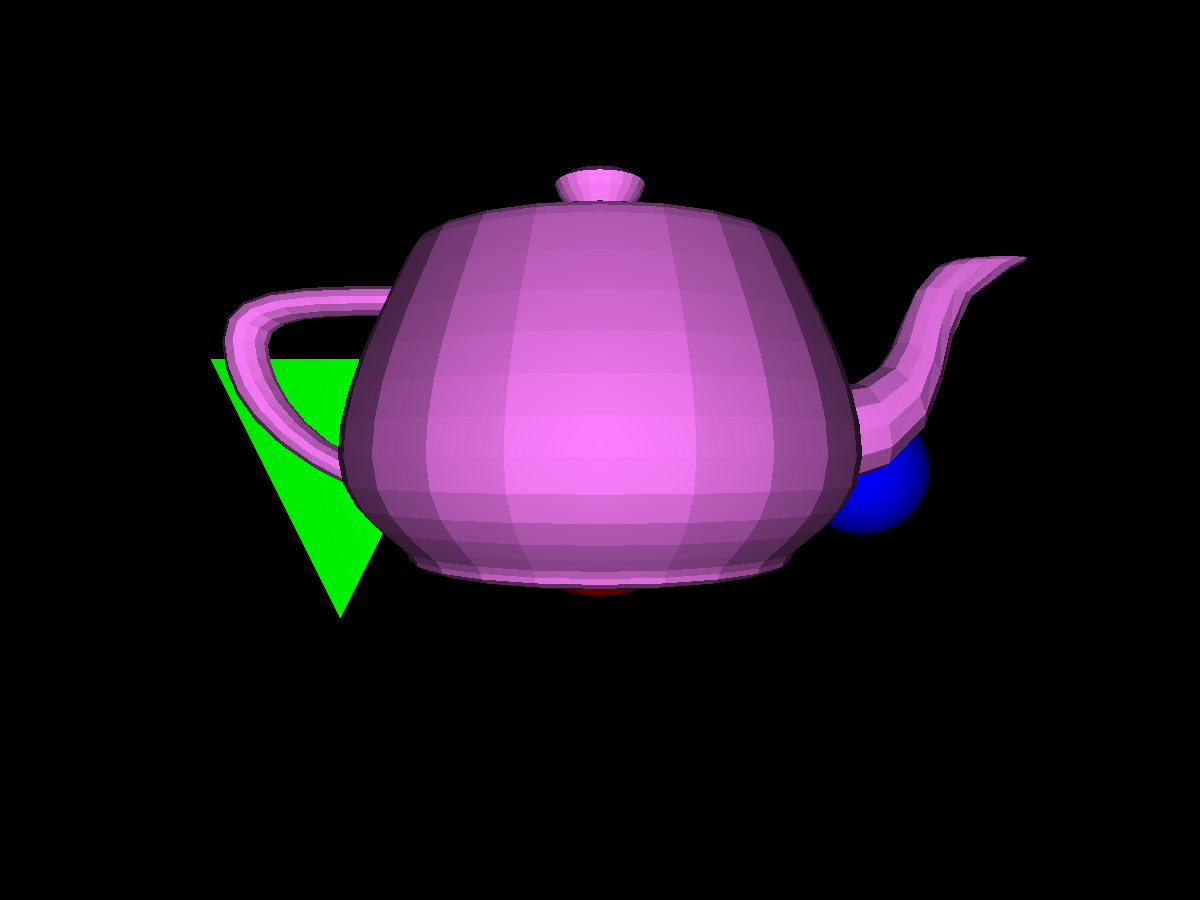
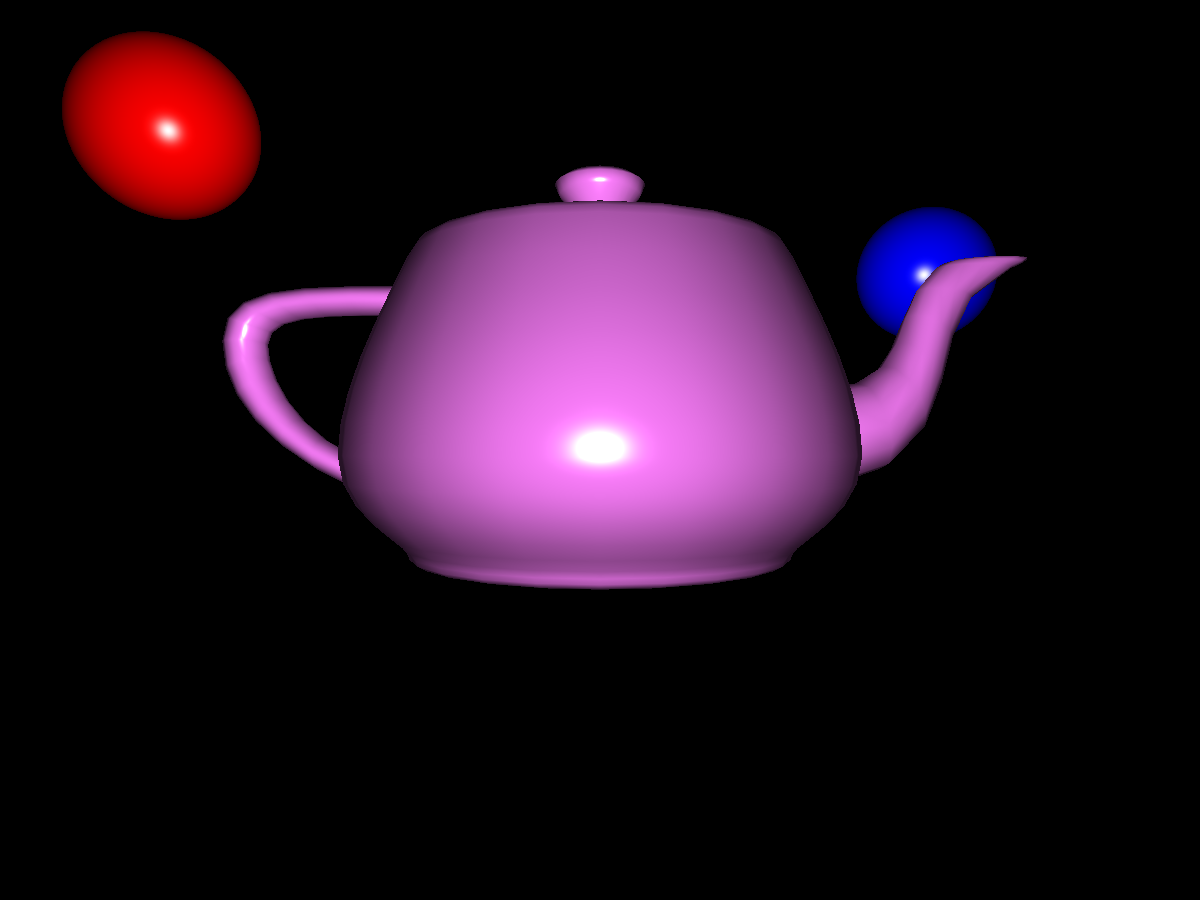
v0.5 - Phong Shading

diff --git a/ObjReader.java b/ObjReader.java
@@ -3,62 +3,73 @@ import java.util.*;
 
 public class OBJReader {
 
-    /**
-     * Loads a 3D model from an OBJ file at the given path and reads its vertices and faces
-     * to create geometry using triangles.
-     * Supports face formats: v, v/vt, v/vt/vn, v//vn
-     * Supports triangles and quads (quads are fan-triangulated).
-     *
-     * @param path  Path to the .obj file
-     * @param color Color to apply to all triangles
-     * @return List of Triangle objects representing the model's geometry
-     */
     public static List<Triangle> load(String path, Vector3D color) {
 
         List<Vector3D> vertices = new ArrayList<>();
+        List<Vector3D> normals  = new ArrayList<>(); // vn lines
         List<Triangle> triangles = new ArrayList<>();
 
         try (BufferedReader br = new BufferedReader(new FileReader(path))) {
 
             String line;
-
             while ((line = br.readLine()) != null) {
-
                 line = line.trim();
-
-                // Skip empty lines and comments
                 if (line.isEmpty() || line.startsWith("#")) continue;
 
                 // Vertices
                 if (line.startsWith("v ")) {
-                    String[] parts = line.split("\\s+");
+                    String[] p = line.split("\\s+");
+                    vertices.add(new Vector3D(
+                        Double.parseDouble(p[1]),
+                        Double.parseDouble(p[2]),
+                        Double.parseDouble(p[3])
+                    ));
+                }
 
-                    double x = Double.parseDouble(parts[1]);
-                    double y = Double.parseDouble(parts[2]);
-                    double z = Double.parseDouble(parts[3]);
-
-                    vertices.add(new Vector3D(x, y, z));
+                // Vertex normals
+                else if (line.startsWith("vn ")) {
+                    String[] p = line.split("\\s+");
+                    normals.add(new Vector3D(
+                        Double.parseDouble(p[1]),
+                        Double.parseDouble(p[2]),
+                        Double.parseDouble(p[3])
+                    ).normalize());
                 }
 
                 // Faces
                 else if (line.startsWith("f ")) {
                     String[] parts = line.split("\\s+");
 
-                    // Parse each vertex token, handling formats:
-                    // "v", "v/vt", "v/vt/vn", "v//vn"
-                    int[] idx = new int[parts.length - 1];
-                    for (int i = 0; i < idx.length; i++) {
-                        idx[i] = Integer.parseInt(parts[i + 1].split("/")[0]) - 1;
+                    int[] vi = new int[parts.length - 1]; // vertex indices
+                    int[] ni = new int[parts.length - 1]; // normal indices
+                    boolean hasNormals = false;
+
+                    for (int i = 0; i < vi.length; i++) {
+                        String[] tokens = parts[i + 1].split("/");
+                        vi[i] = Integer.parseInt(tokens[0]) - 1;
+
+                        // Format v/vt/vn or v//vn
+                        if (tokens.length == 3 && !tokens[2].isEmpty()) {
+                            ni[i] = Integer.parseInt(tokens[2]) - 1;
+                            hasNormals = true;
+                        }
                     }
 
-                    // Fan-triangulate the face (handles triangles, quads, and n-gons)
-                    for (int i = 1; i < idx.length - 1; i++) {
-                        Triangle tri = new Triangle(
-                            vertices.get(idx[0]),
-                            vertices.get(idx[i]),
-                            vertices.get(idx[i + 1]),
-                            color
-                        );
+                    // Fan-triangulate
+                    for (int i = 1; i < vi.length - 1; i++) {
+                        Triangle tri;
+                        if (hasNormals && !normals.isEmpty()) {
+                            tri = new Triangle(
+                                vertices.get(vi[0]), vertices.get(vi[i]), vertices.get(vi[i+1]),
+                                normals.get(ni[0]),  normals.get(ni[i]),  normals.get(ni[i+1]),
+                                color
+                            );
+                        } else {
+                            tri = new Triangle(
+                                vertices.get(vi[0]), vertices.get(vi[i]), vertices.get(vi[i+1]),
+                                color
+                            );
+                        }
                         triangles.add(tri);
                     }
                 }
@@ -66,19 +77,15 @@ public class OBJReader {
 
         } catch (IOException e) {
             System.err.println("Error reading OBJ file: " + e.getMessage());
-            e.printStackTrace();
         } catch (NumberFormatException e) {
-            System.err.println("Error parsing OBJ file (malformed number): " + e.getMessage());
-            e.printStackTrace();
+            System.err.println("Malformed number in OBJ file: " + e.getMessage());
         } catch (IndexOutOfBoundsException e) {
-            System.err.println("Error parsing OBJ file (vertex index out of bounds): " + e.getMessage());
-            e.printStackTrace();
+            System.err.println("Index out of bounds in OBJ file: " + e.getMessage());
         }
 
         return triangles;
     }
 
-    // Debugging method - very useful btw
     public static void printBounds(List<Triangle> triangles) {
         double minX = Double.MAX_VALUE, minY = Double.MAX_VALUE, minZ = Double.MAX_VALUE;
         double maxX = -Double.MAX_VALUE, maxY = -Double.MAX_VALUE, maxZ = -Double.MAX_VALUE;

diff --git a/PointLight.java b/PointLight.java
@@ -1,42 +1,40 @@
 public class PointLight extends Light {
-
+    
     private Vector3D position;
-
+    
     public PointLight(Vector3D position, Vector3D color, double intensity) {
         super(color, intensity);
         this.position = position;
     }
-
+    
     public Vector3D getPosition() { return position; }
-
+    
     @Override
     public Vector3D getDirectionToLight(Vector3D hitPoint) {
         return position.substract(hitPoint).normalize();
     }
-
-    /**
-     * Computes the flat-shaded color contribution of this light on a surface.
-     *
-     * Flat shading uses a constant normal per triangle (no interpolation),
-     * so the entire triangle receives the same shading value.
-     *
-     * @param hitPoint      The point on the surface that was hit
-     * @param normal        The surface normal of the triangle (flat, not interpolated)
-     * @param objectColor   The base color of the object
-     * @param ambientLight  Ambient light intensity (0.0 - 1.0), prevents fully black shadows
-     * @return              The shaded color as a Vector3D (RGB in 0-1 range)
-     */
+    
+    
     @Override
-    public Vector3D shade(Vector3D hitPoint, Vector3D normal, Vector3D objectColor, double ambientLight) {
-        Vector3D toLight = getDirectionToLight(hitPoint);
+    public Vector3D shade(Vector3D hitPoint, Vector3D normal, Vector3D objectColor, double ambientLight, Vector3D cameraPosition, double shininess) {
+            
+        Vector3D toLight  = getDirectionToLight(hitPoint);
+        Vector3D toCamera = cameraPosition.substract(hitPoint).normalize();
+
+        // Diffuse
         double diffuse = Math.max(0.0, normal.dotProduct(toLight));
-        double shade = ambientLight + (1.0 - ambientLight) * diffuse * intensity;
-        shade = Math.min(shade, 1.0);
+
+        // Specular — reflect toLight around normal, measure alignment with toCamera
+        Vector3D reflection = normal.scale(2.0 * normal.dotProduct(toLight)).substract(toLight);
+        double specular = Math.pow(Math.max(0.0, reflection.dotProduct(toCamera)), shininess);
+
+        double diffuseShade  = ambientLight + (1.0 - ambientLight) * diffuse * intensity;
+        double specularShade = specular * intensity;
 
         return new Vector3D(
-            objectColor.getX() * shade * color.getX(),
-            objectColor.getY() * shade * color.getY(),
-            objectColor.getZ() * shade * color.getZ()
+            Math.min(objectColor.getX() * diffuseShade * color.getX() + specularShade, 1.0),
+            Math.min(objectColor.getY() * diffuseShade * color.getY() + specularShade, 1.0),
+            Math.min(objectColor.getZ() * diffuseShade * color.getZ() + specularShade, 1.0)
         );
     }
 }

diff --git a/Triangle.java b/Triangle.java
@@ -3,18 +3,27 @@ import java.util.List;
 public class Triangle extends Object3D {
 
     private Vector3D v0, v1, v2;
-    private static final double EPSILON = 1e-6; // Small constant to handle near-zero values
+    private Vector3D n0, n1, n2; // Per-vertex normals (may be null if not provided)
+    private static final double EPSILON = 1e-6;
 
+    // Constructor without vertex normals (flat shading fallback)
     public Triangle(Vector3D v0, Vector3D v1, Vector3D v2, Vector3D color) {
         super(v0, color);
-        this.v0 = v0;
-        this.v1 = v1;
-        this.v2 = v2;
+        this.v0 = v0; this.v1 = v1; this.v2 = v2;
+        this.n0 = null; this.n1 = null; this.n2 = null;
     }
 
-    public List<Vector3D> getVertices() {
-        return List.of(v0, v1, v2);
+    // Constructor with vertex normals (Phong shading)
+    public Triangle(Vector3D v0, Vector3D v1, Vector3D v2,
+                    Vector3D n0, Vector3D n1, Vector3D n2, Vector3D color) {
+        super(v0, color);
+        this.v0 = v0; this.v1 = v1; this.v2 = v2;
+        this.n0 = n0; this.n1 = n1; this.n2 = n2;
     }
+
+    public List<Vector3D> getVertices() { return List.of(v0, v1, v2); }
+
+    public boolean hasVertexNormals() { return n0 != null; }
 
     @Override
     public Intersection intersect(Ray ray) {
@@ -28,11 +37,9 @@ public class Triangle extends Object3D {
         Vector3D P = D.crossProduct(edge2);
         double det = edge1.dotProduct(P);
 
-        // If the determinant is near zero, the ray lies in the plane of the triangle or is parallel to it.
         if (Math.abs(det) < EPSILON) return null;
 
         double invDet = 1.0 / det;
-
         Vector3D T = O.substract(v0);
 
         double u = T.dotProduct(P) * invDet;
@@ -48,8 +55,19 @@ public class Triangle extends Object3D {
 
         Vector3D point = ray.pointAlongRay(t);
 
-        // Normal del triángulo
-        Vector3D normal = edge1.crossProduct(edge2).normalize();
+        // Interpolate normal using barycentric coordinates (u, v, 1-u-v)
+        Vector3D normal;
+        if (hasVertexNormals()) {
+            double w = 1.0 - u - v; // Weight of v0
+            normal = new Vector3D(
+                w * n0.getX() + u * n1.getX() + v * n2.getX(),
+                w * n0.getY() + u * n1.getY() + v * n2.getY(),
+                w * n0.getZ() + u * n1.getZ() + v * n2.getZ()
+            ).normalize();
+        } else {
+            // Fallback to flat face normal
+            normal = edge1.crossProduct(edge2).normalize();
+        }
 
         return new Intersection(t, point, normal, this);
     }

diff --git a/DirectionalLight.java b/DirectionalLight.java
@@ -1,28 +1,33 @@
 public class DirectionalLight extends Light {
 
-    private Vector3D direction; // Direction the light travels (toward the scene)
+    private Vector3D direction;
 
     public DirectionalLight(Vector3D direction, Vector3D color, double intensity) {
         super(color, intensity);
-        // Store the normalized direction pointing TOWARD the light (opposite of travel)
         this.direction = direction.normalize();
     }
 
     @Override
-    public Vector3D getDirectionToLight(Vector3D hitPoint) {
-        return direction; // Constant for all points — no position involved
-    }
+    public Vector3D getDirectionToLight(Vector3D hitPoint) { return direction; }
 
     @Override
-    public Vector3D shade(Vector3D hitPoint, Vector3D normal, Vector3D objectColor, double ambientLight) {
+    public Vector3D shade(Vector3D hitPoint, Vector3D normal, Vector3D objectColor, double ambientLight, Vector3D cameraPosition, double shininess) {
+
+        Vector3D toCamera = cameraPosition.substract(hitPoint).normalize();
+
         double diffuse = Math.max(0.0, normal.dotProduct(direction));
-        double shade = ambientLight + (1.0 - ambientLight) * diffuse * intensity;
-        shade = Math.min(shade, 1.0);
+
+        Vector3D reflection = normal.scale(2.0 * normal.dotProduct(direction)).substract(direction);
+        double specular = Math.pow(Math.max(0.0, reflection.dotProduct(toCamera)), shininess);
+
+        double specularStrength = 0.3; // How strong the highlight is (0.0 - 1.0)
+        double diffuseShade  = ambientLight + (1.0 - ambientLight) * diffuse * intensity;
+        double specularShade = specularStrength * specular * intensity;
 
         return new Vector3D(
-            objectColor.getX() * shade * color.getX(),
-            objectColor.getY() * shade * color.getY(),
-            objectColor.getZ() * shade * color.getZ()
+            Math.min(objectColor.getX() * diffuseShade * color.getX() + specularShade, 1.0),
+            Math.min(objectColor.getY() * diffuseShade * color.getY() + specularShade, 1.0),
+            Math.min(objectColor.getZ() * diffuseShade * color.getZ() + specularShade, 1.0)
         );
     }
 }

diff --git a/Raytracer.java b/Raytracer.java
@@ -20,14 +20,15 @@ public class Raytracer {
     public Vector3D shade(Intersection hit) {
         Vector3D color = new Vector3D(0, 0, 0);
         Vector3D objectColor = hit.getObject().getColor();
-        Vector3D normal      = hit.getNormal();
-        Vector3D hitPoint    = hit.getPoint();
+        Vector3D normal = hit.getNormal();
+        Vector3D hitPoint = hit.getPoint();
+        double   shininess = hit.getObject().getShininess();
+        Vector3D cameraPos = camera.getPosition();
 
-        double ambientLight = 0.15; // Tweak this (0.0 = pitch black shadows, 1.0 = no shading)
+        double ambientLight = 0.15;
 
         for (Light light : scene.getLights()) {
-            Vector3D contribution = light.shade(hitPoint, normal, objectColor, ambientLight);
-            // Accumulate contributions from all lights
+            Vector3D contribution = light.shade(hitPoint, normal, objectColor, ambientLight, cameraPos, shininess);
             color = new Vector3D(
                 color.getX() + contribution.getX(),
                 color.getY() + contribution.getY(),
@@ -35,7 +36,6 @@ public class Raytracer {
             );
         }
 
-        // Clamp final color to [0, 1]
         return new Vector3D(
             Math.min(color.getX(), 1.0),
             Math.min(color.getY(), 1.0),
@@ -68,9 +68,8 @@ public class Raytracer {
         Scene scene = new Scene();
 
         
-        scene.addObject(new Sphere(new Vector3D(0, 0, -5), 1, new Vector3D(1, 0, 0)));
-        scene.addObject(new Sphere(new Vector3D(4,0, -10), 1 ,new Vector3D(0, 0, 1)));
-        scene.addObject(new Triangle(new Vector3D(-2, -1, -4), new Vector3D(-1, 1, -4), new Vector3D(-3, 1, -4), new Vector3D(0, 1, 0)));
+        scene.addObject(new Sphere(new Vector3D(-5, 4, -7), 1, new Vector3D(1, 0, 0)));
+        scene.addObject(new Sphere(new Vector3D(5,3, -10), 1 ,new Vector3D(0, 0, 1)));
         
         // Placing the light above of the model, in front of the camera.
         scene.addLight(new PointLight(

diff --git a/Object3D.java b/Object3D.java
@@ -3,16 +3,26 @@ public abstract class Object3D {
 
     private Vector3D position;
     private Vector3D color;
+    private double shininess;
 
     // Constructor
-    public Object3D (Vector3D position, Vector3D color) {
+    public Object3D (Vector3D position, Vector3D color, double shininess) {
         this.position = position;
         this.color = color;
+        this.shininess = shininess;
+    }
+
+    // Compatible constructor for Objects without shininess
+    public Object3D (Vector3D position, Vector3D color) {
+        this(position, color, 32.0);
     }
 
     // Getters and setters
     public Vector3D getPosition() { return position;}
     public Vector3D getColor() { return color;}
+
+    public double getShininess() { return shininess; }
+    public void setShininess(double shininess) { this.shininess = shininess; }
 
     public void setPosition(Vector3D position) { this.position = position; }
     public void setColor(Vector3D color) { this.color = color;}

diff --git a/Light.java b/Light.java
@@ -20,5 +20,5 @@ public abstract class Light {
     /**
      * Computes this light's shaded color contribution on a surface.
      */
-    public abstract Vector3D shade(Vector3D hitPoint, Vector3D normal, Vector3D objectColor, double ambientLight);
+    public abstract Vector3D shade(Vector3D hitPoint, Vector3D normal, Vector3D objectColor, double ambientLight, Vector3D cameraPosition, double shininess);
 }
